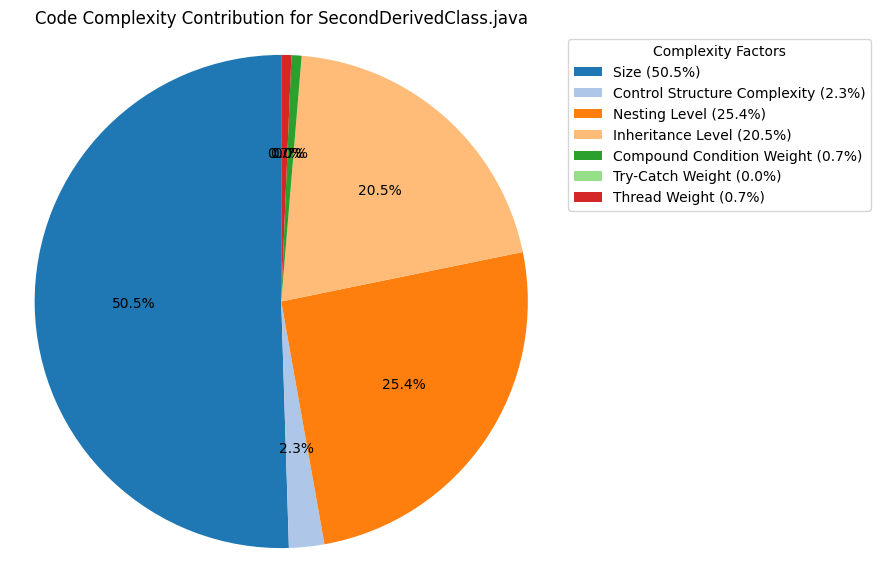
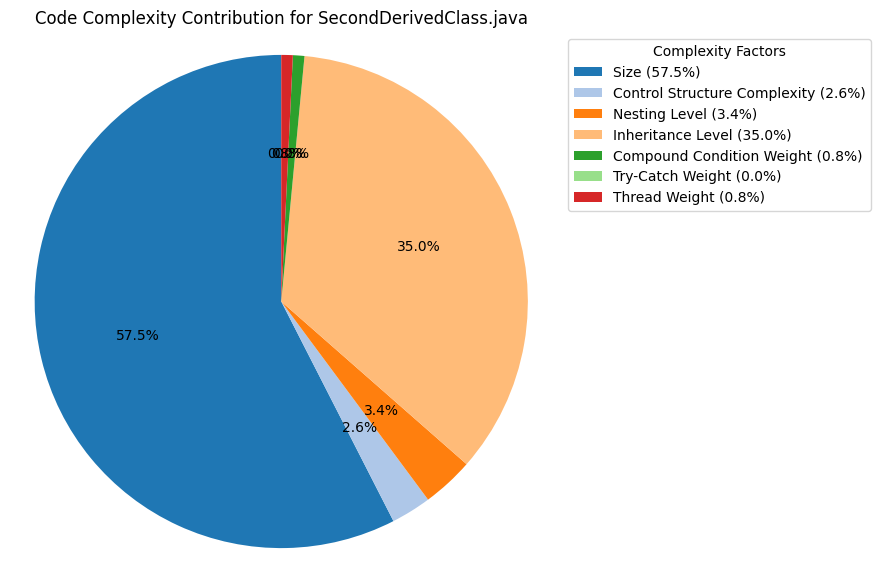
changes commited

diff --git a/Drinks/complexity_calculator.py b/Drinks/complexity_calculator.py
@@ -291,61 +291,118 @@ def calculate_compound_condition_weight(line):
 #     return weight
 
 
+# def calculate_try_catch_weight(java_code):
+#     """
+#     Calculates the weight of nesting levels specifically for try-catch-finally blocks in Java code.
+#     - Increment nesting level for `try`.
+#     - Assign weights line by line for `catch` and `finally`.
+#     """
+#     java_code = remove_comments(java_code)
+#     lines = java_code.splitlines()
+#
+#     # State variables
+#     current_nesting = 0
+#     total_weight = 0
+#     nesting_levels = []
+#     line_weights = {}
+#
+#     # Regular expressions
+#     control_regex = re.compile(r'\b(try|catch|finally)\b')
+#
+#     # Weights for `catch` based on nesting levels
+#     catch_weights = {1: 1, 2: 3, 3: 4, 4: 5}
+#
+#     for line_no, line in enumerate(lines, start=1):
+#         stripped_line = line.strip()
+#
+#         if not stripped_line:
+#             # Empty lines, just carry over nesting and weight
+#             nesting_levels.append((line_no, stripped_line, current_nesting, 0))
+#             continue
+#
+#         control_match = control_regex.search(stripped_line)
+#         if control_match:
+#             control_type = control_match.group()
+#
+#             if control_type == 'try':
+#                 current_nesting += 1  # Increment nesting for `try`
+#
+#             elif control_type == 'catch':
+#                 # Assign weight for `catch` based on the current nesting level
+#                 weight = catch_weights.get(current_nesting, 5)
+#                 line_weights[line_no] = weight
+#
+#             elif control_type == 'finally':
+#                 # Assign a fixed weight of 2 for `finally`
+#                 line_weights[line_no] = 2
+#
+#         nesting_levels.append((line_no, stripped_line, current_nesting, line_weights.get(line_no, 0)))
+#
+#         # Adjust nesting levels for closing braces
+#         if stripped_line.endswith('}'):
+#             current_nesting -= 1
+#
+#     return nesting_levels, line_weights
+
 def calculate_try_catch_weight(java_code):
     """
     Calculates the weight of nesting levels specifically for try-catch-finally blocks in Java code.
     - Increment nesting level for `try`.
-    - Assign weights line by line for `catch` and `finally`.
+    - Assign weights line by line for `catch` and `finally` based on nesting level.
     """
+    # Remove comments from the Java code
     java_code = remove_comments(java_code)
     lines = java_code.splitlines()
 
     # State variables
     current_nesting = 0
-    total_weight = 0
     nesting_levels = []
     line_weights = {}
 
-    # Regular expressions
+    # Regular expressions for try, catch, and finally
     control_regex = re.compile(r'\b(try|catch|finally)\b')
 
     # Weights for `catch` based on nesting levels
     catch_weights = {1: 1, 2: 3, 3: 4, 4: 5}
+    finally_weight = 2
 
     for line_no, line in enumerate(lines, start=1):
         stripped_line = line.strip()
 
         if not stripped_line:
-            # Empty lines, just carry over nesting and weight
+            # Skip empty lines
             nesting_levels.append((line_no, stripped_line, current_nesting, 0))
             continue
 
+        # Check for try, catch, or finally
         control_match = control_regex.search(stripped_line)
         if control_match:
             control_type = control_match.group()
 
             if control_type == 'try':
-                current_nesting += 1  # Increment nesting for `try`
+                # Increment nesting level for `try`
+                current_nesting += 1
 
             elif control_type == 'catch':
-                # Assign weight for `catch` based on the current nesting level
+                # Assign weight for `catch` based on nesting level
                 weight = catch_weights.get(current_nesting, 5)
                 line_weights[line_no] = weight
 
             elif control_type == 'finally':
-                # Assign a fixed weight of 2 for `finally`
-                line_weights[line_no] = 2
+                # Assign fixed weight for `finally`
+                line_weights[line_no] = finally_weight
 
+        # Append the current line and its weight
         nesting_levels.append((line_no, stripped_line, current_nesting, line_weights.get(line_no, 0)))
 
-        # Adjust nesting levels for closing braces
+        # Adjust nesting level for closing braces
         if stripped_line.endswith('}'):
-            current_nesting -= 1
+            current_nesting = max(0, current_nesting - 1)
 
     return nesting_levels, line_weights
 
 
-
+"""
 # Function to calculate weight due to thread operations
 def calculate_thread_weight(line):
     weight = 0
@@ -359,6 +416,53 @@ def calculate_thread_weight(line):
         weight += 5  # Weight of 3 for synchronized blocks/methods
 
     return weight
+"""
+
+def calculate_thread_weight(java_code):
+    """
+    Calculates the complexity weight for thread-related constructs in Java code.
+    Assigns weights for:
+    - Thread creation (e.g., `new Thread` or `Runnable`) with weight 2.
+    - Thread synchronization (`synchronized`) with weight 3.
+    """
+
+    java_code = remove_comments(java_code)
+    lines = java_code.splitlines()
+
+    # Regular expressions
+    thread_creation_regex = re.compile(r'\bnew\s+Thread\b|\bRunnable\b')
+    thread_sync_regex = re.compile(r'\bsynchronized\b')
+
+    # Weights
+    thread_creation_weight = 2
+    thread_sync_weight = 4
+
+    # Result variables
+    line_weights = {}
+
+    for line_no, line in enumerate(lines, start=1):
+        stripped_line = line.strip()
+
+        if not stripped_line:
+            # Skip empty lines
+            continue
+
+        # Initialize weight for the current line
+        weight = 0
+
+        # Check for thread creation
+        if thread_creation_regex.search(stripped_line):
+            weight += thread_creation_weight
+
+        # Check for thread synchronization
+        if thread_sync_regex.search(stripped_line):
+            weight += thread_sync_weight
+
+        # Store weight if it's greater than 0
+        if weight > 0:
+            line_weights[line_no] = weight
+
+    return line_weights
 
 
 # Set up logging
@@ -1008,6 +1112,11 @@ def calculate_code_complexity_multiple_files(file_contents):
         try_catch_weights, try_catch_weight_dict = calculate_try_catch_weight(content)
 
         print("try_catch_weights---------------------------------", try_catch_weight_dict)
+        print("try_catch_weights Nesting Levels-++++++++++++++++++++++++++---------------------------------", try_catch_weights)
+
+        thread_weights = calculate_thread_weight(content)
+
+        print("thread_weights---------------------------------", thread_weights)
 
         # Calculate MPC and CBO for this file
         cbo_value = calculate_cbo(class_references).get(class_name, 0)
@@ -1053,6 +1162,7 @@ def calculate_code_complexity_multiple_files(file_contents):
             nesting_level = nesting_level_dict.get(line_number, 0)
             try_catch_weight = try_catch_weight_dict.get(line_number, 0)
             print("try_catch_weight", try_catch_weight)
+            thread_weight = thread_weights.get(line_number, 0)
 
             # Calculate control structure complexity
             control_structure_complexity = calculate_control_structure_complexity(line)
@@ -1075,7 +1185,7 @@ def calculate_code_complexity_multiple_files(file_contents):
             # try_catch_weight = calculate_try_catch_weight(line, current_nesting)
 
             # Calculate weights for thread operations
-            thread_weight = calculate_thread_weight(line)
+            # thread_weight = calculate_thread_weight(line)
 
             # Append complexity details to line_complexities for recommendations
             line_complexities.append({
@@ -1094,7 +1204,7 @@ def calculate_code_complexity_multiple_files(file_contents):
             # Calculate the total complexity for this line (this could be the sum of all the metrics)
             total_complexity = (
                     size + control_structure_complexity + nesting_level + current_inheritance +
-                    compound_condition_weight + try_catch_weight + thread_weight
+                    compound_condition_weight + try_catch_weight + 0
             )
 
             # Update the total WCC for the file
@@ -1186,14 +1296,19 @@ def calculate_code_complexity_by_method(content, method_inheritance, class_name)
 
     print("nesting_levels----------------------", nesting_levels)
 
+    thread_weights = calculate_thread_weight(content)
+
     # Split content by line and analyze each one
     for line in content.splitlines():
         # Detect method declarations (example pattern; adapt as needed)
         match = re.search(r'\b(?:public|private|protected)?\s*(?:static)?\s*\w+\s+(\w+)\s*\(.*\)\s*{', line)
         if match:
+            method_name = match.group(1)
+            if method_name in ["if", "for", "while", "switch", "Thread", "run"]:  # Ignore control structures
+                continue
             # If we're already in a method, calculate its complexity
             if method_name:
-                methods[method_name] = calculate_complexity_for_method(method_lines, method_inheritance, class_name, nesting_level_dict, try_catch_weight_dict)
+                methods[method_name] = calculate_complexity_for_method(method_lines, method_inheritance, class_name, nesting_level_dict, try_catch_weight_dict, thread_weights)
             # Start a new method
             method_name = match.group(1)
             method_lines = [line]
@@ -1203,23 +1318,24 @@ def calculate_code_complexity_by_method(content, method_inheritance, class_name)
 
     # Final method complexity calculation
     if method_name:
-        methods[method_name] = calculate_complexity_for_method(method_lines, method_inheritance, class_name, nesting_level_dict, try_catch_weight_dict)
+        methods[method_name] = calculate_complexity_for_method(method_lines, method_inheritance, class_name, nesting_level_dict, try_catch_weight_dict, thread_weights)
 
     return methods
 
 
 # Helper function to calculate complexity for a method based on lines of code
-def calculate_complexity_for_method(lines, method_inheritance, class_name, nesting_level_dict, try_catch_weight_dict):
+def calculate_complexity_for_method(lines, method_inheritance, class_name, nesting_level_dict, try_catch_weight_dict, thread_weights):
     size = 0
     control_structure_complexity = 0
     nesting_level = 0
     compound_condition_weight = 0
     try_catch_weight = 0
-    thread_weight = 0
+    # thread_weight = 0
     current_inheritance_sum = 0
     current_class = class_name
     total_nesting = 0
     total_try_catch_weight = 0
+    total_thread_weight = 0
 
     current_nesting = 0
     control_structure_stack = []
@@ -1242,6 +1358,9 @@ def calculate_complexity_for_method(lines, method_inheritance, class_name, nesti
         try_catch_weight = try_catch_weight_dict.get(line_number, 0)
         total_try_catch_weight += try_catch_weight
 
+        thread_weight = thread_weights.get(line_number, 0)
+        total_thread_weight += thread_weight
+
         size += line_size
 
         current_inheritance_sum += total_inheritance
@@ -1263,12 +1382,12 @@ def calculate_complexity_for_method(lines, method_inheritance, class_name, nesti
         # try_catch_weight += calculate_try_catch_weight(line, current_nesting)
 
         # Thread weight
-        thread_weight += calculate_thread_weight(line)
+        # thread_weight += calculate_thread_weight(line)
 
     # Sum up the complexity metrics for this method
     total_complexity = (
             size + control_structure_complexity + total_nesting + current_inheritance_sum +
-            compound_condition_weight + total_try_catch_weight + thread_weight
+            compound_condition_weight + total_try_catch_weight + total_thread_weight
     )
 
     print("current_inheritance_sum", current_inheritance_sum)
@@ -1279,7 +1398,7 @@ def calculate_complexity_for_method(lines, method_inheritance, class_name, nesti
         "inheritance_level": current_inheritance_sum,
         "compound_condition_weight": compound_condition_weight,
         "try_catch_weight": total_try_catch_weight,
-        "thread_weight": thread_weight,
+        "thread_weight": total_thread_weight,
         "total_complexity": total_complexity
     }
 
